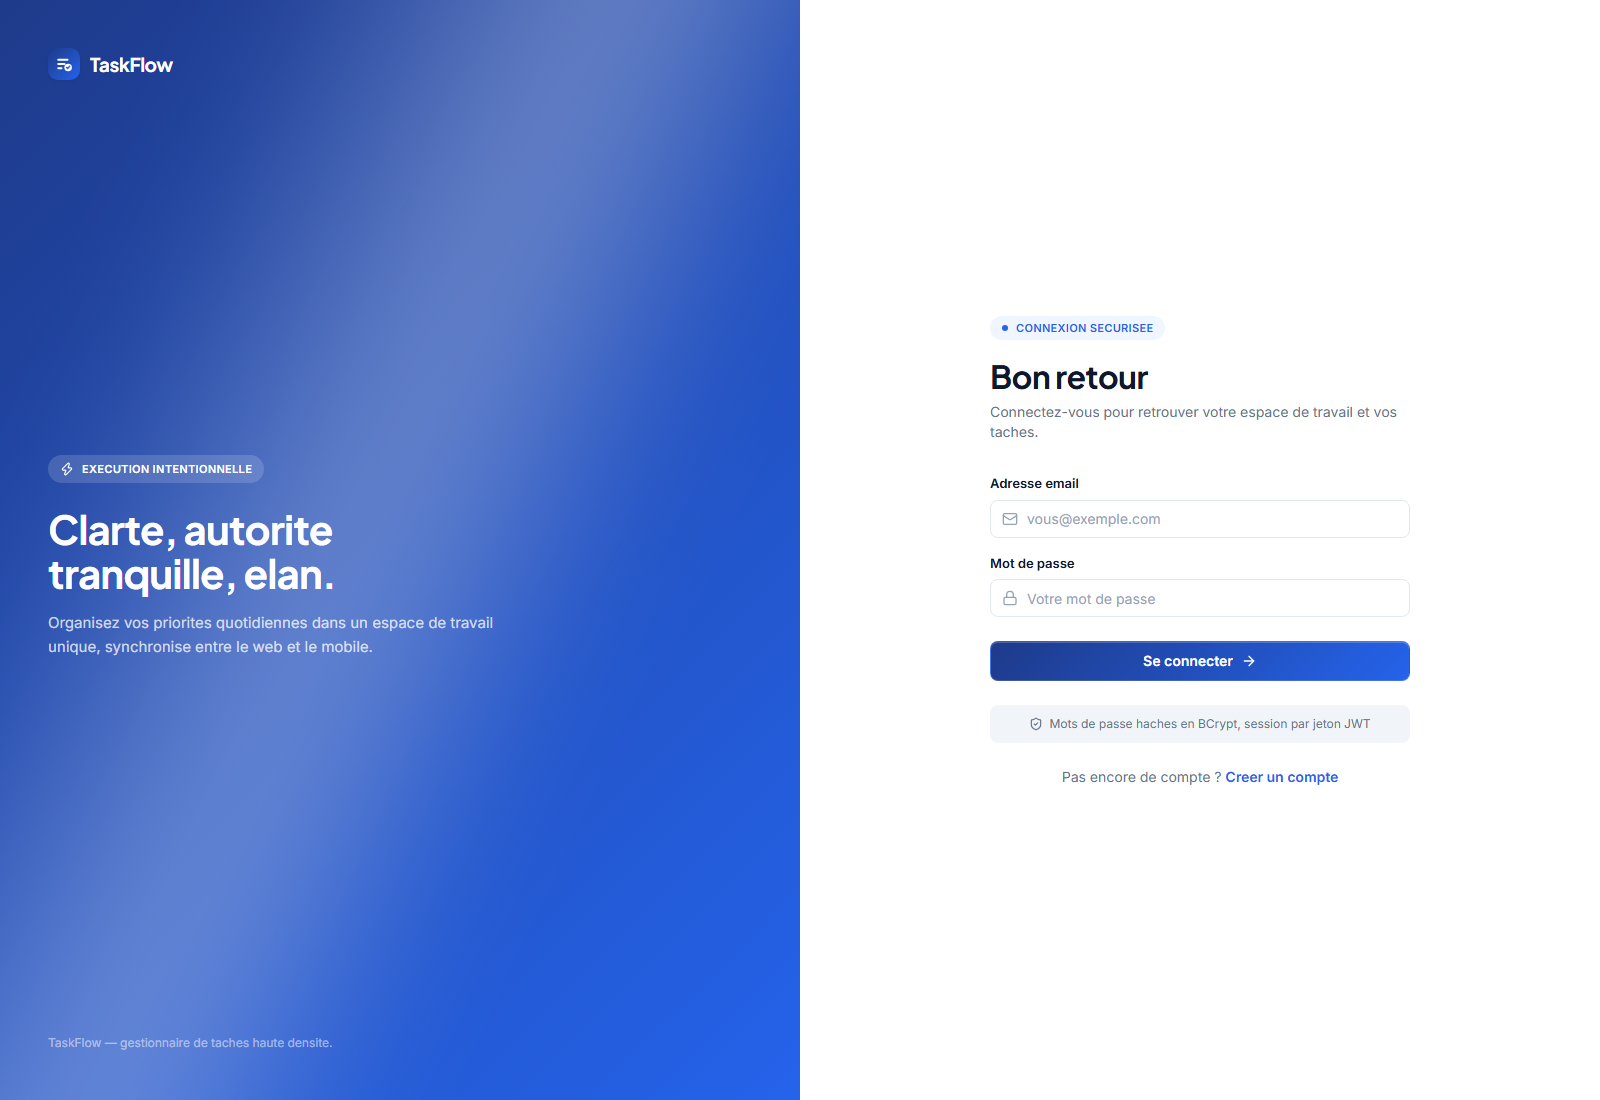
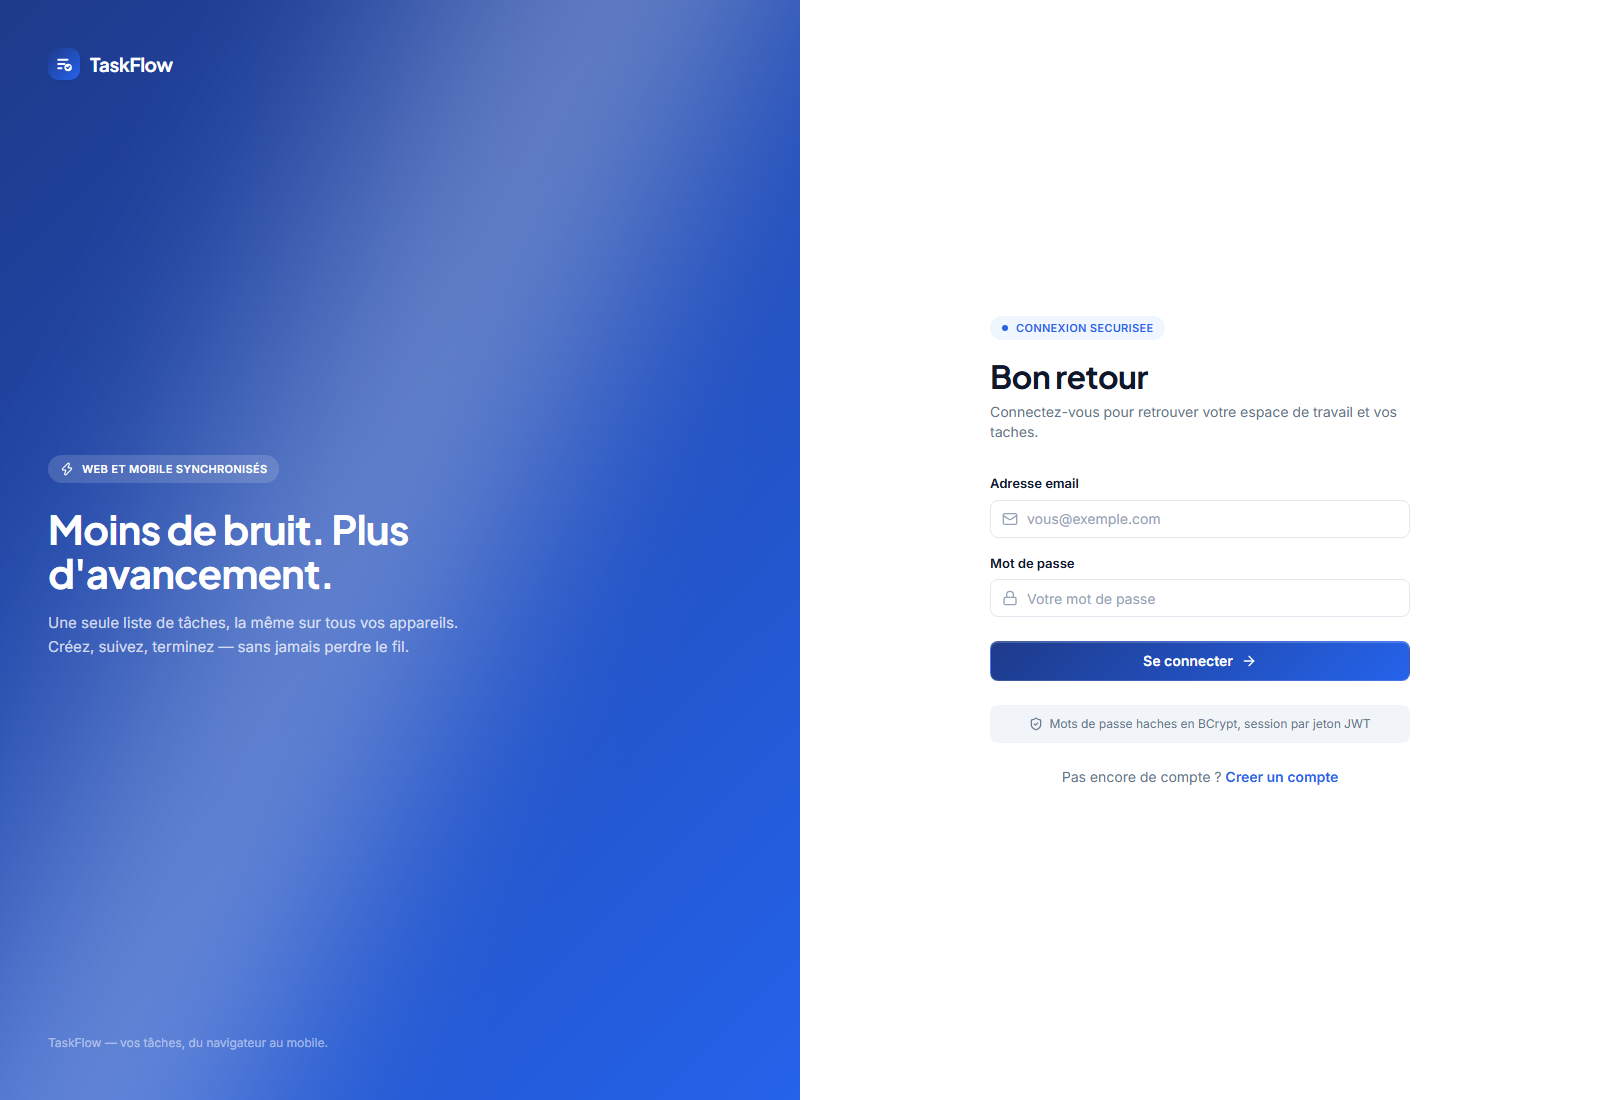
docs: apercu complet et accroche reecrite
- Capture de l'ecran d'inscription et de la page parametres ajoutees,
  captures renumerotees pour suivre le parcours de l'utilisateur
- Accroche des ecrans d'authentification reecrite : la precedente etait
  une traduction litterale et ne voulait rien dire en francais

Changed region(s): [[0.0312, 0.4636, 0.3125, 0.6182], [0.0938, 0.9273, 0.2188, 0.9582], [0.0625, 0.4018, 0.1875, 0.4327]]

diff --git a/frontend/src/pages/SettingsPage.tsx b/frontend/src/pages/SettingsPage.tsx
@@ -1,5 +1,5 @@
 import { useState } from 'react'
-import { KeyRound, LogOut, Mail, ShieldCheck, User as UserIcon } from 'lucide-react'
+import { KeyRound, LogOut, Mail, User as UserIcon } from 'lucide-react'
 import { Button } from '@/components/ui/Button'
 import { ConfirmDialog } from '@/components/ui/ConfirmDialog'
 import { useAuth } from '@/hooks/useAuth'
@@ -46,22 +46,9 @@ export function SettingsPage() {
         </dl>
       </section>
 
-      <section className="rounded-card border border-border-hairline bg-surface p-5 shadow-level1">
-        <h2 className="text-[13px] font-semibold text-ink">Securite</h2>
-        <p className="mt-2 flex items-start gap-2 text-[13px] leading-6 text-ink-muted">
-          <ShieldCheck className="mt-0.5 size-4 shrink-0 text-done-fg" />
-          Votre mot de passe est stocke sous forme de hash BCrypt et n'est jamais
-          conservé en clair. Votre session repose sur un jeton JWT valable 24 heures,
-          conserve dans le navigateur et renvoye a chaque appel de l'API.
-        </p>
-      </section>
-
       <section className="flex flex-wrap items-center justify-between gap-4 rounded-card border border-border-hairline bg-surface p-5 shadow-level1">
         <div>
           <h2 className="text-[13px] font-semibold text-ink">Deconnexion</h2>
-          <p className="mt-1 text-[13px] text-ink-muted">
-            Le jeton sera efface de ce navigateur.
-          </p>
         </div>
         <Button variant="secondary" size="compact" onClick={() => setConfirmLogout(true)}>
           <LogOut className="size-4" />

diff --git a/frontend/src/components/layout/AuthLayout.tsx b/frontend/src/components/layout/AuthLayout.tsx
@@ -27,19 +27,20 @@ export function AuthLayout({ children }: { children: ReactNode }) {
         <div className="relative max-w-md">
           <span className="inline-flex items-center gap-2 rounded-full bg-white/15 px-3 py-1.5 text-[11px] font-semibold uppercase tracking-[0.03em] text-white">
             <Zap className="size-3.5" />
-            Execution intentionnelle
+            Web et mobile synchronisés
           </span>
           <h1 className="mt-6 font-display text-[40px] font-bold leading-[1.1] tracking-[-0.02em] text-white">
-            Clarte, autorite tranquille, elan.
+            Moins de bruit.
+            Plus d'avancement.
           </h1>
           <p className="mt-4 text-[15px] leading-6 text-white/75">
-            Organisez vos priorites quotidiennes dans un espace de travail unique,
-            synchronise entre le web et le mobile.
+            Une seule liste de tâches, la même sur tous vos appareils.
+            Créez, suivez, terminez sans jamais perdre le fil.
           </p>
         </div>
 
         <p className="relative text-[12px] text-white/50">
-          TaskFlow — gestionnaire de taches haute densite.
+          TaskFlow — vos tâches, du navigateur au mobile.
         </p>
       </div>
 

diff --git a/frontend/src/pages/LoginPage.tsx b/frontend/src/pages/LoginPage.tsx
@@ -1,6 +1,6 @@
 import { useState, type FormEvent } from 'react'
 import { Link, Navigate, useNavigate } from 'react-router-dom'
-import { ArrowRight, Lock, Mail, ShieldCheck } from 'lucide-react'
+import { ArrowRight, Lock, Mail } from 'lucide-react'
 import { AuthLayout } from '@/components/layout/AuthLayout'
 import { Button } from '@/components/ui/Button'
 import { Input } from '@/components/ui/Input'
@@ -84,11 +84,6 @@ export function LoginPage() {
           {!submitting && <ArrowRight className="size-4" />}
         </Button>
       </form>
-
-      <p className="mt-6 flex items-center justify-center gap-1.5 rounded-control bg-recessed px-3 py-2.5 text-[12px] text-ink-muted">
-        <ShieldCheck className="size-3.5" />
-        Mots de passe haches en BCrypt, session par jeton JWT
-      </p>
 
       <p className="mt-6 text-center text-sm text-ink-muted">
         Pas encore de compte ?{' '}

diff --git a/README.md b/README.md
@@ -4,19 +4,22 @@ Application de gestion de tâches en trois parties : une **API REST Java Spring 
 un **frontend web React** et une **application mobile Flutter**, toutes trois branchées
 sur la même base de données et le même système d'authentification.
 
-Réalisé dans le cadre du test de recrutement décrit dans `TEST DE RECRUTEMENT.pdf`.
 
 ---
 
 ## Aperçu
 
-| Connexion | Liste des tâches |
+| Connexion | Inscription |
 |---|---|
-| ![Écran de connexion](docs/captures/01-connexion.png) | ![Liste des tâches](docs/captures/02-liste-taches.png) |
+| ![Écran de connexion](docs/captures/01-connexion.png) | ![Inscription](docs/captures/02-inscription.png) |
 
-| Détail d'une tâche | Édition |
+| Liste des tâches | Détail d'une tâche |
 |---|---|
-| ![Détail d'une tâche](docs/captures/03-detail-tache.png) | ![Édition d'une tâche](docs/captures/04-edition-tache.png) |
+| ![Liste des tâches](docs/captures/03-liste-taches.png) | ![Détail d'une tâche](docs/captures/04-detail-tache.png) |
+
+| Edition d'une tâche | Paramètres |
+|---|---|
+| ![Edition d'une tâche](docs/captures/05-edition-tache.png) | ![Paramètres](docs/captures/06-parametre.png) |
 
 ---
 
@@ -47,8 +50,7 @@ Réalisé dans le cadre du test de recrutement décrit dans `TEST DE RECRUTEMENT
 ├── backend/     API REST Spring Boot
 ├── frontend/    Interface web React
 ├── mobile/      Application Flutter
-├── docs/        Captures d'écran
-└── DESIGN.md    Design system partagé par le web et le mobile
+└── docs/        Captures d'écran
 ```
 
 ---
@@ -302,8 +304,8 @@ pas affichés plutôt que simulés.
 
 ### Cohérence visuelle
 
-`DESIGN.md` définit un design system complet : palette, échelles typographiques,
-rayons, quatre niveaux d'élévation, spécifications de composants.
+Le web et le mobile suivent un design system commun : palette, échelles
+typographiques, rayons, quatre niveaux d'élévation, spécifications de composants.
 
 Ses tokens sont déclarés **une seule fois par plateforme** — dans `@theme` de
 Tailwind côté web, dans `lib/core/design.dart` côté mobile. Conséquence
@@ -387,8 +389,4 @@ données réelles derrière.
 **L'interface est rédigée sans accents.** Un détail de forme, corrigeable d'un
 seul passage, qui n'affecte pas le fonctionnement.
 
----
 
-## Auteur
-
-**Zuber Ndengue** — test de recrutement, septembre 2026.
